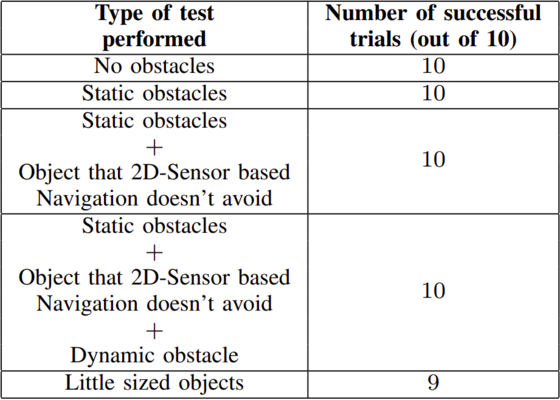
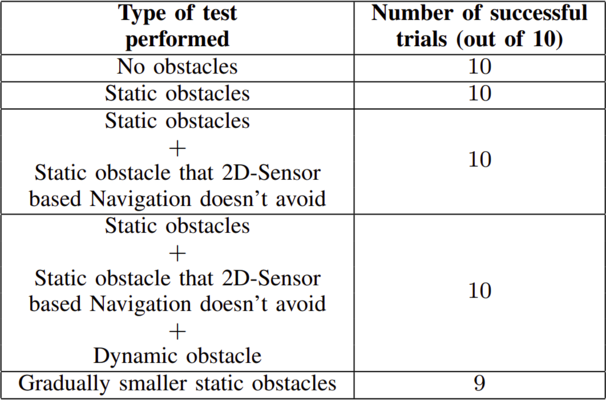
Post7 correction

Changed region(s): [[0.0, 0.0, 1.0, 1.0], [0.7589, 0.69, 0.8196, 0.75], [0.7589, 0.36, 0.8196, 0.42]]

diff --git a/content/english/blog/4th_week7.md b/content/english/blog/4th_week7.md
@@ -26,11 +26,11 @@ The tests will be denoted as:
 
 - **Static obstacles:** Navigation with a known map and two static obstacles.
 
-- **Static obstacles + Object that 2D-Sensor based Navigation doesn't avoid:** Navigation with a known map, static obstacles, and a suspended object (a board) that the 3D-Sensor-based navigation avoids, but the 2D-Sensor-based navigation would collide with.
+- **Static obstacles + Static obstacle that 2D-Sensor based Navigation doesn't avoid:** Navigation with a known map, static obstacles, and a suspended object (a board) that the 3D-Sensor-based navigation avoids, but the 2D-Sensor-based navigation would collide with.
 
-- **Static obstacles + Object that 2D-Sensor based Navigation doesn't avoid + Dynamic obstacle:** Navigation with a known map, static obstacles, a suspended object (a board), and a dynamic obstacle (a person) that the robot needs to detect and calculate another possible trajectory to its destination.
+- **Static obstacles + Static obstacle that 2D-Sensor based Navigation doesn't avoid + Dynamic obstacle:** Navigation with a known map, static obstacles, a suspended object (a board), and a dynamic obstacle (a person) that the robot needs to detect and calculate another possible trajectory to its destination.
 
-- **Little sized objects:** Navigation with a known map and static obstacles of decreasing sizes that the 2D-Sensor-based navigation has difficulty detecting.
+- **Gradually smaller static obstacles:** Navigation with a known map and static obstacles of decreasing sizes that the 2D-Sensor-based navigation has difficulty detecting.
 
 The video demonstrations of each test are presented below.
 
@@ -66,7 +66,7 @@ The video demonstrations of each test are presented below.
 
 {{< image 
   src="/images/Blog/4th_week7/cadeira_com_tabua.gif" 
-  caption="Figure 3 - Test name: Static obstacles + Object that 2D-Sensor based Navigation doesn't avoid." 
+  caption="Figure 3 - Test name: Static obstacles + Static obstacle that 2D-Sensor based Navigation doesn't avoid." 
   alt="alter-text" 
   height="300px" 
   width="800px" 
@@ -80,7 +80,7 @@ The video demonstrations of each test are presented below.
 
 {{< image 
   src="/images/Blog/4th_week7/cadeiras_tabua_pessoa_para.gif" 
-  caption="Figure 4 - Test name: Static obstacles + Object that 2D-Sensor based Navigation doesn't avoid + Dynamic obstacle." 
+  caption="Figure 4 - Test name: Static obstacles + Static obstacle that 2D-Sensor based Navigation doesn't avoid + Dynamic obstacle." 
   alt="alter-text" 
   height="300px" 
   width="800px" 
@@ -94,7 +94,7 @@ The video demonstrations of each test are presented below.
 
 {{< image 
   src="/images/Blog/4th_week7/little_objects_3.gif" 
-  caption="Figure 5 - Test name: Little sized objects." 
+  caption="Figure 5 - Test name: Gradually smaller static obstacles." 
   alt="alter-text" 
   height="300px" 
   width="800px" 
